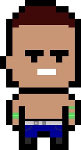
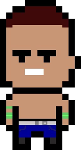
Added function to find and get elements. Split functions for moving player node left and right.

diff --git a/js/app.js b/js/app.js
@@ -1,9 +1,16 @@
 // - PODSTAWOWE INFO -
+function getElement(selector) {
+    return document.querySelector('.game-box-container ' + selector);
+}
+
 var playerPosition;
 var gameItemsCollection = [];
 var chosenItem;
 
 // - OBIEKTY -
+
+
+var playerNode = getElement('div.game-dude');
 
 
 // - STARTOWANIE GRY -
@@ -17,18 +24,19 @@ var chosenItem;
 
 // - RANDOMIZOWANIE OWOCÓW -
 
-function collectingGameItems () {
+function collectingGameItems() {
     var items = document.querySelectorAll('.game-box-container div.game-item');
-    var i;
 
-    for (i=0; i<items.length; i++) {gameItemsCollection.push(items[i])}
+    for (var i = 0; i < items.length; i++) {
+        gameItemsCollection.push(items[i])
+    }
 }
 
 collectingGameItems();
 
 
-function randomizeAndReturnItems (tableOfItems) {
-    chosenItem = tableOfItems[Math.floor(Math.random()*tableOfItems.length)];
+function randomizeAndReturnItems(tableOfItems) {
+    chosenItem = tableOfItems[Math.floor(Math.random() * tableOfItems.length)];
     return chosenItem;
 }
 
@@ -42,43 +50,41 @@ randomizeAndReturnItems(gameItemsCollection);
 
 // - RUCH LUDZIKA -
 
-function positionPlayer () {
-    document.querySelector('.game-box-container div.game-dude').style.left = '350px';
-    playerPosition = parseInt(document.querySelector('.game-box-container div.game-dude').style.left);
+function positionPlayer() {
+    playerNode.style.left = '350px';
+    playerPosition = parseInt(playerNode.style.left);
 }
 
 positionPlayer();
 
-function movePlayer (event) {
-
-    switch (event.keyCode) {
-
-        case 37:
-            document.querySelector('.game-box-container div.game-dude img').src="images/game_assets/dude-right.png";
-            if (playerPosition>0) {
-                document.querySelector('.game-box-container div.game-dude').style.left = (playerPosition - 3).toString() + 'px';
-                playerPosition -= 3;
-            }
-
-            break;
-        case 39:
-            document.querySelector('.game-box-container div.game-dude img').src="images/game_assets/dude-left.png";
-            if (playerPosition<719) {
-                document.querySelector('.game-box-container div.game-dude').style.left = (playerPosition + 3).toString() + 'px';
-                playerPosition += 3;
-            }
-            break;
-
+function movePlayerLeft() {
+    playerNode.style.backgroundImage = "url('images/game_assets/dude-left.png')";
+    if (playerPosition > 0) {
+        playerNode.style.left = (playerPosition - 15).toString() + 'px';
+        playerPosition -= 15;
     }
-
-
 }
 
+function movePlayerRight() {
+    playerNode.style.backgroundImage = "url('images/game_assets/dude-right.png')";
+    if (playerPosition < 719) {
+        playerNode.style.left = (playerPosition + 15).toString() + 'px';
+        playerPosition += 15;
+    }
+}
 
-document.addEventListener('keydown', movePlayer);
+function onKeyDown(event) {
+    switch (event.keyCode) {
+        case 37:
+            movePlayerLeft();
+            break;
+        case 39:
+            movePlayerRight();
+            break;
+    }
+}
 
-
-
+document.addEventListener('keydown', onKeyDown);
 
 
 // - KOLIZJE -

diff --git a/index.html b/index.html
@@ -305,7 +305,7 @@
 
     <section class="game-box">
         <div class="game-box-container container">
-            <div class="game-dude"><img src="images/game_assets/dude-right.png" class="img-responsive"></div>
+            <div class="game-dude"></div>
             <div class="healthy apple game-item"><img src="images/game_assets/apple.png" class="img-responsive"></div>
             <div class="healthy carrot game-item"><img src="images/game_assets/carrot.png" class="img-responsive"></div>
             <div class="healthy pear game-item"><img src="images/game_assets/pear.png" class="img-responsive"></div>

diff --git a/css/style.css b/css/style.css
@@ -292,6 +292,9 @@ header .jumbotron span{
     position: absolute;
     top: 345px;
     left: 0;
+    height: 150px;
+    width: 81px;
+    background-image: url("../images/game_assets/dude-left.png");
 }
 
 .game-box-container div.healthy {
